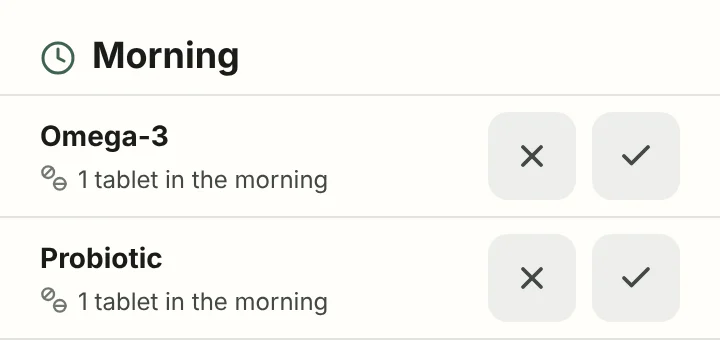
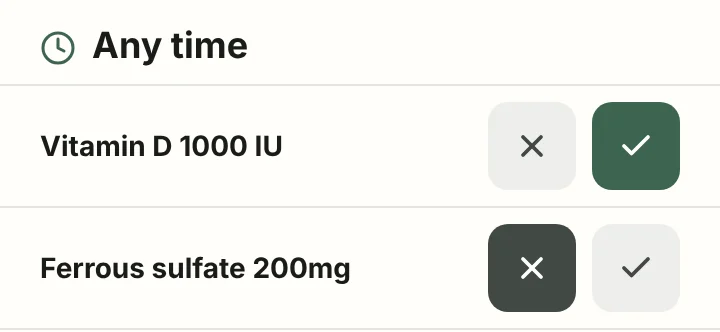
Run the margin rule the full page height; show marked journal items
Changelog: none

diff --git a/site/index.html b/site/index.html
@@ -85,10 +85,23 @@
         margin: 0;
         color: var(--foreground);
         background-color: var(--paper);
+        /* The notebook's margin rule, drawn into the page so it runs the
+           full height, over the graph grid. */
+        --margin: max(12px, calc(50% - 520px));
         background-image:
+          linear-gradient(
+            90deg,
+            transparent var(--margin),
+            rgba(199, 124, 78, 0.5) var(--margin),
+            rgba(199, 124, 78, 0.5) calc(var(--margin) + 1.5px),
+            transparent calc(var(--margin) + 1.5px)
+          ),
           linear-gradient(var(--grid) 1px, transparent 1px),
           linear-gradient(90deg, var(--grid) 1px, transparent 1px);
-        background-size: 22px 22px;
+        background-size:
+          100% 100%,
+          22px 22px,
+          22px 22px;
         font: 17px/1.6 var(--serif);
       }
       header,
@@ -100,18 +113,6 @@
         margin: 0 auto;
         padding-left: max(28px, env(safe-area-inset-left));
         padding-right: max(20px, env(safe-area-inset-right));
-      }
-      /* The notebook's margin rule. */
-      body::before {
-        content: '';
-        position: fixed;
-        top: 0;
-        bottom: 0;
-        left: max(12px, calc(50% - 520px));
-        width: 1.5px;
-        background: var(--apricot);
-        opacity: 0.5;
-        pointer-events: none;
       }
       header {
         display: flex;
@@ -461,9 +462,9 @@
               class="shot"
               src="screens/daily-protocol.webp"
               width="720"
-              height="340"
+              height="332"
               loading="lazy"
-              alt="Healthy's daily protocol: Omega-3 and Probiotic in the morning, each with skip and done buttons"
+              alt="Healthy's journal: Vitamin D 1000 IU marked as taken and Ferrous sulfate 200mg marked as skipped"
             />
             <h3>Your protocol</h3>
             <p>
